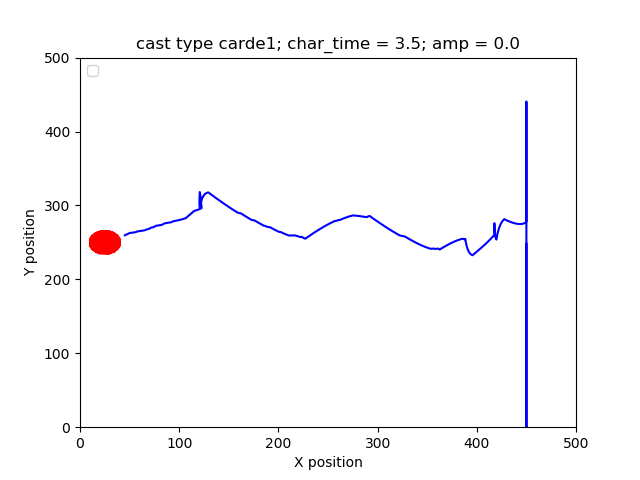
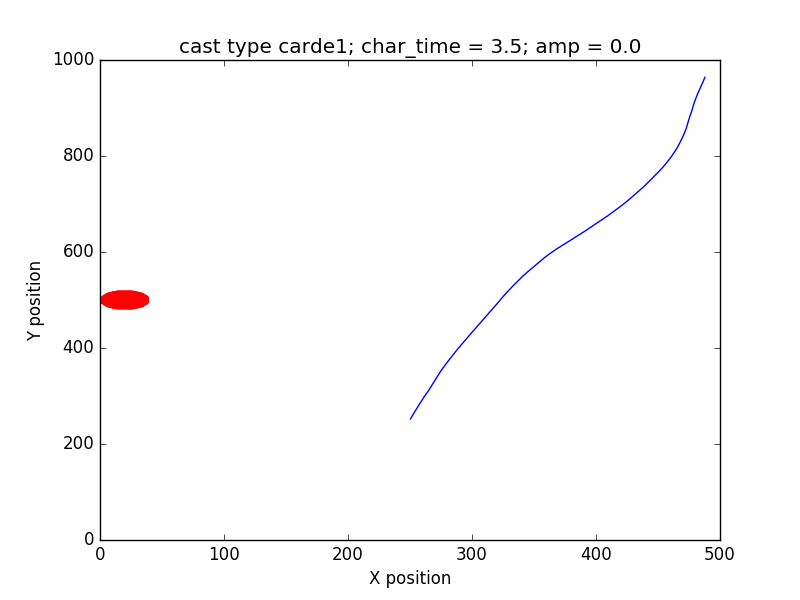
compare_navigotrs... runs different variants for correlated random walk. for this purpose detection threshold is very high meaning that the navigators can not detect odor at all. The angle of turn for each step is normally distributed around a value named base_angle. Each base angle is tested 4 time

diff --git a/moth/simulation.py b/moth/simulation.py
@@ -31,7 +31,7 @@ def moth_simulation(num_it=10,navigators = (),t_max = 1,char_time=3.5, amplitude
     """
     #define simulation region
     wind_region = models.Rectangle(0., -2., 10., 2.)
-    sim_region = models.Rectangle(0., -1., 2., 1.)
+    sim_region = models.Rectangle(0., -1., 4., 1.)
     #establish the dictionaries and lists that will be used
     navigator_dict ={}
     times_list = [] # a list of the time it took different moths to reach the goal, for hist purposes
@@ -54,13 +54,13 @@ def moth_simulation(num_it=10,navigators = (),t_max = 1,char_time=3.5, amplitude
     wind_model = models.WindModel(wind_region, 21, 11,1,char_time,amplitude)
     # set up plume model
     plume_model = models.PlumeModel(sim_region, (0.1, 0., 0.), wind_model,
-                                    centre_rel_diff_scale=1.5,
+                                    centre_rel_diff_scale=0.75,
                                     puff_release_rate=500,
                                     puff_init_rad=0.001)
 
     #set concetration array generator
     array_gen = processors.ConcentrationArrayGenerator(sim_region, 0.01, 500,
-                                                       500, 1.)
+                                                       1000, 1.)
     # display initial concentration field as image
     conc_array = array_gen.generate_single_array(plume_model.puff_array)
     
@@ -76,19 +76,9 @@ def moth_simulation(num_it=10,navigators = (),t_max = 1,char_time=3.5, amplitude
                 if i not in del_list:
                     vel_at_pos = wind_model.velocity_at_pos(navigator_dict["tup{0}".format(j)][0]["moth{0}".format(i)].x,navigator_dict["tup{0}".format(j)][0]["moth{0}".format(i)].y)
                     navigator_dict["tup{0}".format(j)][0]["moth{0}".format(i)].update(conc_array,vel_at_pos,0.01)
-                    #if moth is out of bound, teleport to other side
-                    moth_i = navigator_dict["tup{0}".format(j)][0]["moth{0}".format(i)]
-                    """
-                    #navigators that had reached the simulations borders 'teleport' to the other side
-                    if moth_i.y<0 :
-                        navigator_dict["tup{0}".format(j)][0]["moth{0}".format(i)].y = 499 + moth_i.y
-                    elif moth_i.y>499 :
-                        navigator_dict["tup{0}".format(j)][0]["moth{0}".format(i)].y = moth_i.y-499
-                    if moth_i.x<0:
-                        navigator_dict["tup{0}".format(j)][0]["moth{0}".format(i)].x = 499 + moth_i.x
-                    elif moth_i.x >499 :
-                        navigator_dict["tup{0}".format(j)][0]["moth{0}".format(i)].x = moth_i.x-499
-                    """
+
+
+
 
     #each of the moth lists appends the new position given by it's corresponding moth
     def draw_func():
@@ -102,8 +92,8 @@ def moth_simulation(num_it=10,navigators = (),t_max = 1,char_time=3.5, amplitude
                         times_list.append(T)
                         del moth_dict["moth{0}".format(i)]
                         del_list.append(i)
-                    #navigators that had reached the simulations borders are deleted
-                    if moth_i.y<0 or moth_i.y>499 or moth_i.x<0 or moth_i.x >499 :
+                    #navigators that had reached the simulation's borders are deleted
+                    if moth_i.y<0 or moth_i.y>999 or moth_i.x<0 or moth_i.x >499 :
                         del moth_dict["moth{0}".format(i)]
                         del_list.append(i)
 

diff --git a/moth/models.py b/moth/models.py
@@ -11,7 +11,7 @@ __license__ = 'MIT'
 import numpy as np
 import scipy.interpolate as interp
 import random
-from Carde_navigator import carde1,carde2
+from Carde_navigator import carde1,carde2,crw
 
 class Puff(object):
     """
@@ -128,7 +128,7 @@ class PlumeModel(object):
     def __init__(self, sim_region, source_pos, wind_model, model_z_disp=True,
                  centre_rel_diff_scale=2., puff_init_rad=0.03,
                  puff_spread_rate=0.001, puff_release_rate=10,
-                 init_num_puffs=50, max_num_puffs=1000, prng=np.random):
+                 init_num_puffs=50, max_num_puffs=1, prng=np.random):
         """
         Parameters
         ----------
@@ -583,12 +583,12 @@ class MeanderingGenerator(object):
 
 
 class moth_modular(object):
-    def __init__(self,sim_region,x,y,nav_type = 3, cast_type = 'carde2', wait_type = 1, beta=45,duration =0.2, speed = 200.0):
+    def __init__(self,sim_region,x,y,nav_type = 3, cast_type = 'carde2', wait_type = 'crw', beta=45,duration =0.2, speed = 200.0):
         self.x = x
         self.y = y
         self.u = 0
         self.v = 0
-        
+        self.base_turn_angle = 5
         self.sim_region = sim_region
         self.speed = speed
         
@@ -618,7 +618,7 @@ class moth_modular(object):
         self.lamda = 0.2
         
         #odor coefficients
-        self.threshold = 2500
+        self.threshold = 5000
         self.conc_max = 1
         self.base_conc = 20000
         self.odor = False
@@ -642,7 +642,6 @@ class moth_modular(object):
     """
     def update_duration(self):
         #used in navigation modes three and four
-        # I DONT UNDERSTAND WHAT IS GOING ON HERE
         if self.T%0.1:
             self.duration = self.base_duration*min(1,self.base_conc/self.conc_max)
         
@@ -675,6 +674,9 @@ class moth_modular(object):
         Input - conc_array, self.T, self.lamda
         output - true or false, changes self.Tfirst
         """
+        if int(self.x)>499 or int(self.y)>999:
+            print self.x, self.y, self.wait_type, self.cast_type
+            print conc_array.shape
         if conc_array[int(self.x)][int(self.y)]>self.threshold:
             self.smell_timer = self.Timer(self.T,self.lamda)
             #Nav mode three and four need to know whether the moth is smelling
@@ -808,6 +810,10 @@ class moth_modular(object):
             self.calculate_wind_angle(wind_vel_at_pos)
             self.u = -self.speed*np.cos(self.gamma+self.wind_angle)
             self.v = self.speed*np.sin(self.gamma+self.wind_angle)
+
+        if self.wait_type == 'crw':
+            crw(self,wind_vel_at_pos)
+            
         
             
                                      
@@ -826,12 +832,11 @@ class moth_modular(object):
             self.state = 'wait'
         self.x += self.u*dt
         self.y += self.v*dt
-        #print self.T #delete later!
         self.T += dt
         
     def moth_array(self, conc_array, wind_vel_at_pos):
         #draw moth position on matrix
-        moth_array=np.zeros((500,500))
+        moth_array=np.zeros((500,1000))
         for i in range(10):
             for j in range(10):
                 moth_array[int(self.x)-i][int(self.y)-j]=3e4

diff --git a/moth/moth - demos.py b/moth/moth - demos.py
@@ -296,17 +296,33 @@ def wind_vel_and_conc_demo(dt=0.01, t_max=5, draw_iter_interval=50):
 def moth_demo(dt=0.01, t_max = 10, draw_iter_interval=20):
     """
     a copy of the concetration_array_demo with the moth actions integrated
+
+    List of specific changes to make the simulation into "widescreen" (simulation region is twice as wide)
+    in moth_demo
+    *sim_region = models.Rectangle(0., -1., 4., 1.)  x_max is 4
+    *moth_model = models.moth_modular(sim_region, 450.0, 500.0,3,'carde1') y position is between 0 and 1000
+    array_gen = processors.ConcentrationArrayGenerator(sim_region, 0.01, 500,1000, 1.)
+    centre_rel_diff_scale=0.75,
+    in models:
+    moth_array=np.zeros((500,1000)) - considering that moth already takes in the simulation region, it should be relatively easy to make sure we don't have to change it manually every time. 
+    def __init__(self, sim_region, source_pos, wind_model, model_z_disp=True,
+                 centre_rel_diff_scale=2., puff_init_rad=0.03,
+                 puff_spread_rate=0.001, puff_release_rate=10,
+                 init_num_puffs=50, max_num_puffs=2000, prng=np.random):
+    (max puffs increased to 2000)
     """
+    
+    
     # define simulation region
     wind_region = models.Rectangle(0., -2., 10., 2.)
-    sim_region = models.Rectangle(0., -1., 2., 1.)
+    sim_region = models.Rectangle(0., -1., 4., 1.)
     #call moth model, set simulation region and starting position 
-    moth_model = models.moth_modular(sim_region, 450.0, 250.0,3,'carde1')
+    moth_model = models.moth_modular(sim_region, 200.0, 750.0,3,'carde1','crw')
     # set up wind model
     wind_model = models.WindModel(wind_region, 21., 11.,noise_gain=0, u_av=1.,)
     # set up plume model
     plume_model = models.PlumeModel(sim_region, (0.1, 0., 0.), wind_model,
-                                    centre_rel_diff_scale=1.5,
+                                    centre_rel_diff_scale=0.75,
                                     puff_release_rate=500,
                                     puff_init_rad=0.001)
 
@@ -315,7 +331,7 @@ def moth_demo(dt=0.01, t_max = 10, draw_iter_interval=20):
     # display initial concentration field as image
     #set concetration array generator
     array_gen = processors.ConcentrationArrayGenerator(sim_region, 0.01, 500,
-                                                       500, 1.)
+                                                       1000, 1.)
     # display initial concentration field as image
     conc_array = array_gen.generate_single_array(plume_model.puff_array)
     im_extents = (sim_region.x_min, sim_region.x_max,

diff --git a/moth/moth_graphics.py b/moth/moth_graphics.py
@@ -15,24 +15,33 @@ from shapes import circle,square , cx ,cy
 def plot(kalman_dict, title = 'single navigator in flight'):
     num_it = len(kalman_dict)
     #alternative graphic function - shows only kalman trajectories
-    color_wheel =['-b','-g','-c','-m','-y','-k']
+    color_wheel =['-b','-r']
     for i in range(num_it): #present the different kalman trajectories
-        #print kalman_dict["Kalman_list{0}".format(i)]
+        slice_list = [] #a list of indexes 
         kzip = zip(*kalman_dict["Kalman_list{0}".format(i)])
         kx,ky=kzip[0],kzip[1]
-        pylab.plot(kx,ky,color_wheel[i%6]) #choose a color from the color wheel for each trajectory
         for tup in kalman_dict["Kalman_list{0}".format(i)]:
-            if tup[3] == 'odor found':
-                mark = circle(tup[1],tup[0])
-                pylab.plot(mark[0],mark[1],'-r')
-            elif tup[3] == 'odor lost':
-                mark = circle(tup[1],tup[0])
-                pylab.plot(mark[0],mark[1],'-g')
+            if tup[3] == 'odor found' or tup[3] == 'odor lost':
+                index = kalman_dict["Kalman_list{0}".format(i)].index(tup)
+                slice_list.append(index)
+                
+        flag = False #a marker to see if any odor was detected throughout the simulation
+        for j in range(len(slice_list)-1):
+            flag = True
+            xslice = kx[slice_list[j]:slice_list[j+1]+1]
+            yslice = ky[slice_list[j]:slice_list[j+1]+1]
+            pylab.plot(xslice,yslice,color_wheel[(j+1)%2]) #choose a color from the color wheel 
+        #draw the final stretch of the between the last odor event 
+        if flag == True:
+            xslice = kx[slice_list[j+1]:]
+            yslice = ky[slice_list[j+1]:]        
+            pylab.plot(xslice,yslice,color_wheel[j%2])
+        else:
+            pylab.plot(kx,ky,'-b')
 
-
-        
-    pylab.plot(cx,cy,'-r')#add a red circle for the odor source 
-    pylab.ylim(0,500)
+    marker = circle(500,20,20)  
+    pylab.plot(marker[0],marker[1],'-r')#add a red circle for the odor source 
+    pylab.ylim(0,1000)
     pylab.xlim(0,500)
     pylab.xlabel('X position')
     pylab.ylabel('Y position')

diff --git a/moth/Carde_navigator.py b/moth/Carde_navigator.py
@@ -9,8 +9,7 @@ __authors__ = 'Matt Graham'
 __license__ = 'MIT'
 
 import numpy as np
-import scipy.interpolate as interp
-import random
+
 
 def carde1(self, wind_vel_at_pos):
             if self.sweep_counter < 6:
@@ -30,3 +29,20 @@ def carde2(self,wind_vel_at_pos):
                 if self.sweep_counter == 7:
                     self.sweep_counter = 0
             self.cast2(wind_vel_at_pos)
+
+
+
+def crw(self,wind_vel_at_pos):
+        if self.v == 0. and self.u == 0. :
+            current_angle= 3.14*np.random.rand(1)[0] #start with a random angle
+        else:
+            current_angle = np.arctan2(self.v,self.u)
+        turn_angle = 0.0174533*np.random.normal(self.base_turn_angle,1)#turn angle is distributed normally (5,1) degrees and translated to radians
+        turn_angle = np.random.choice([-1,1])*turn_angle
+        new_angle = current_angle + turn_angle
+        self.u = self.speed*np.cos(new_angle)
+        self.v = self.speed*np.sin(new_angle)
+          
+    
+    
+    

diff --git a/moth/Casting_competition.py b/moth/Casting_competition.py
@@ -19,6 +19,15 @@ def create_trajectory_data(job_file_name = 'job.json',data_file_name ='data.json
     navigator3 = models.moth_modular(sim_region, cd['x_start'], cd['y_start'],cd['nav_type'] , 'carde1')
     navigator4 = models.moth_modular(sim_region, cd['x_start'], cd['y_start'],cd['nav_type'] , 'carde2')
     navigators =(navigator1,navigator2,navigator3,navigator4)
+    ############################################################################3
+    #these next lines are there just for testing of the proper turn angle to be used in the future
+    #navigator_list = list(navigatores)
+    for navigator in navigators:
+        navigator.base_turn_angle = cd['base_turn_angle']
+
+
+
+    ################################################################################3
 
     #run the simulation - each navigator runs through the exact same condition
     dict_list = moth_simulation(cd['num_it'],navigators,cd['t_max'],cd['char_time'], cd['amplitude'])

diff --git a/moth/graphics_from_file.py b/moth/graphics_from_file.py
@@ -17,7 +17,7 @@ def save_plot(job_file_name = 'job.json',data_file_name ='data1.json',navigators
         diff_dict = dict_list[i]
         kalman_dict = kalman_filter(diff_dict)
         navigator = navigators[i]
-        title = 'cast type ' + navigator +'; char_time = ' +str(cd['char_time']) + '; amp = ' +str(cd['amplitude'])
+        title = 'correlated random walk' +  '; base turn angle = ' +str(cd['base_turn_angle']) +' try number ' + str(i)
         plot(kalman_dict,title)
 
 def save_detection_plot(job_file_name = 'job.json',data_file_name ='data1.json',navigators = ('2','3','carde1','carde2')):
@@ -37,4 +37,4 @@ def save_detection_plot(job_file_name = 'job.json',data_file_name ='data1.json',
 
 
 if __name__ == "__main__":
-    save_plot('job2.json','data2.json')
+    save_plot('job4.json','data4.json')

diff --git a/moth/compare_navigators_in_different_wind_conditions.py b/moth/compare_navigators_in_different_wind_conditions.py
@@ -16,10 +16,10 @@ plots a single plot for each one
 """
 
 if __name__ == "__main__":
-    for i in range(2,8):
+    for i in range(15):
         job_file = 'job'+ str(i)+ '.json'
         data_file = 'data'+ str(i)+ '.json'
-        generate_job(3.5,0.1*i,job_file) #the amplitude of wind noise (sine) grows with each iteration
+        generate_job(3.5,0.1*i,job_file,5*i) #the amplitude of wind noise (sine) grows with each iteration
         create_trajectory_data(job_file,data_file)
         save_plot(job_file,data_file)
-        save_detection_plot(job_file,data_file)
+        #save_detection_plot(job_file,data_file)

diff --git a/moth/Job_generator.py b/moth/Job_generator.py
@@ -1,16 +1,18 @@
 import json
 
 
-def generate_job(char_time =3.5,amplitude =0.1,job_file='job.json'):
+def generate_job(char_time =3.5,amplitude =0.1,job_file='job.json',base_turn_angle=5):
     const_dict={}
     const_dict['num_it'] = 1
-    const_dict['t_max']=25.
+    const_dict['t_max']=100.
     const_dict['char_time']=char_time
     const_dict['amplitude'] = amplitude
 
-    const_dict['x_start'] = 450
-    const_dict['y_start'] = 310
+    const_dict['x_start'] = 250
+    const_dict['y_start'] = 250
     const_dict['nav_type'] = 3
+
+    const_dict['base_turn_angle'] = base_turn_angle
     
     
     

diff --git a/moth/shapes.py b/moth/shapes.py
@@ -4,7 +4,7 @@ def circle(x, y, r=3):
     listy=[]
     for i in range(int(y-r),int(y+r)):
         for j in range(int(x-r),int(x+r)):
-            if np.sqrt((i-y)**2+((j-x)**2))<r :
+            if np.sqrt(((i-y)**2)+((j-x)**2))<r :
                     listx.append(i)
                     listy.append(j)
     return (listx, listy)
